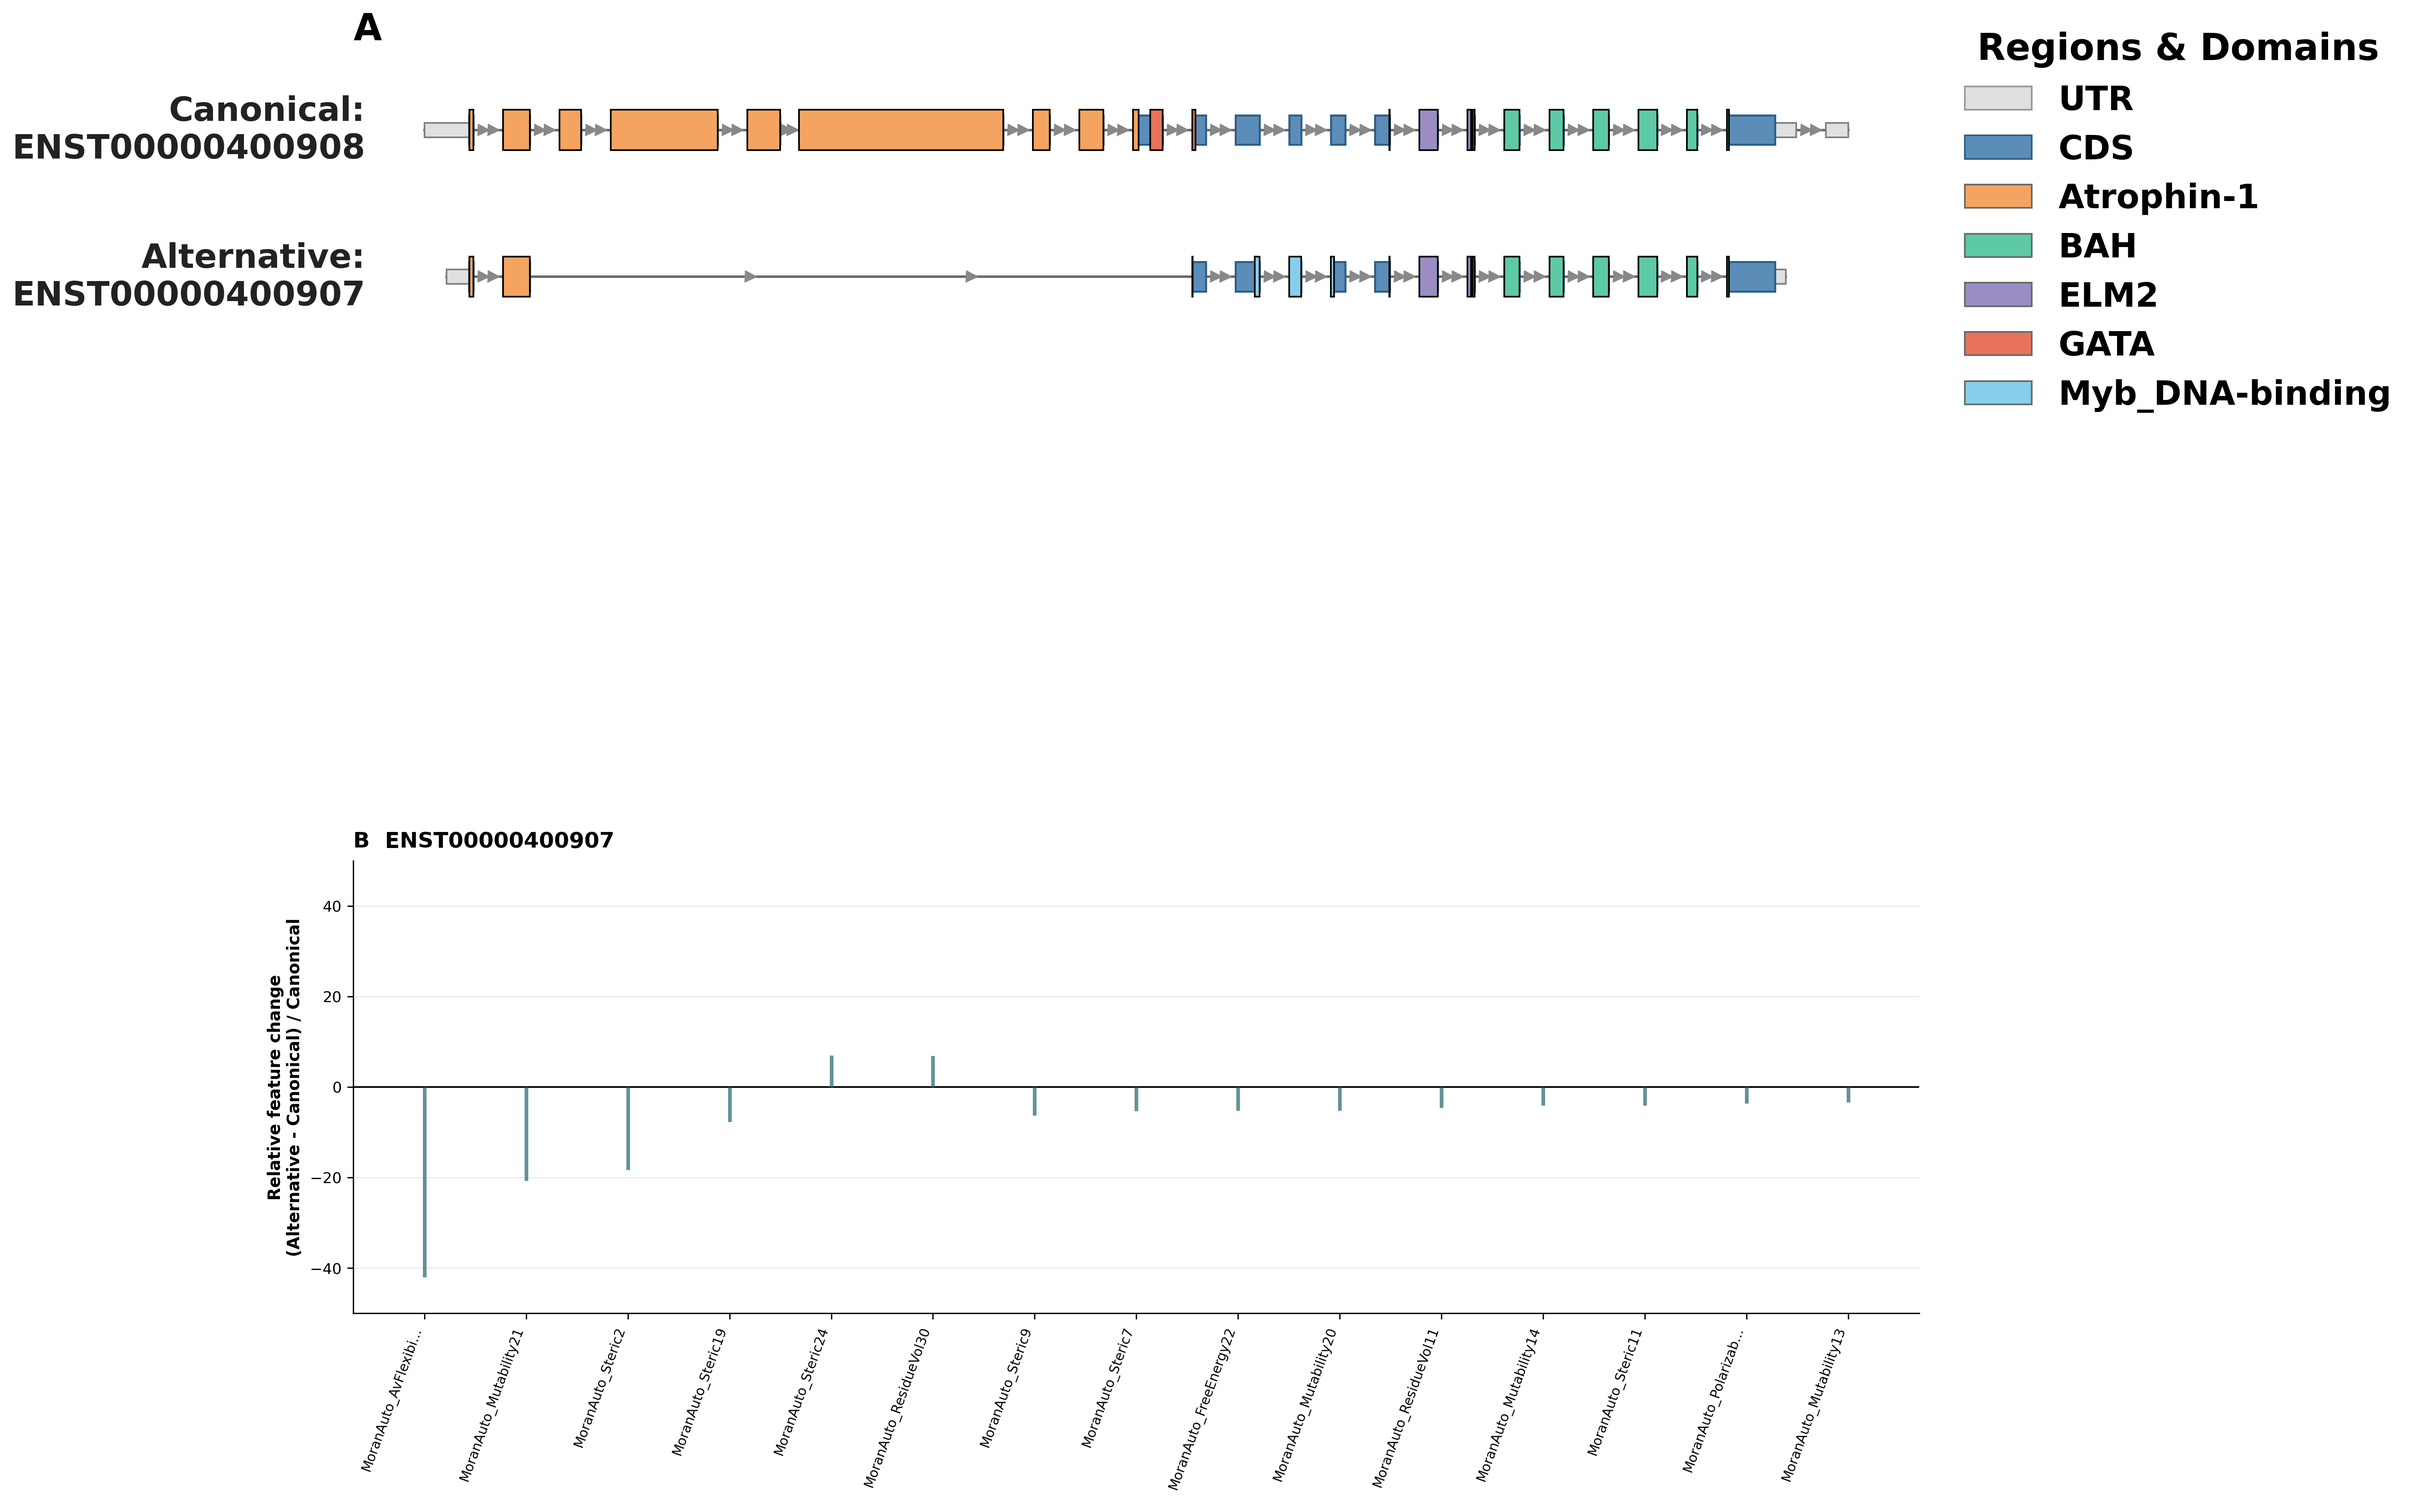
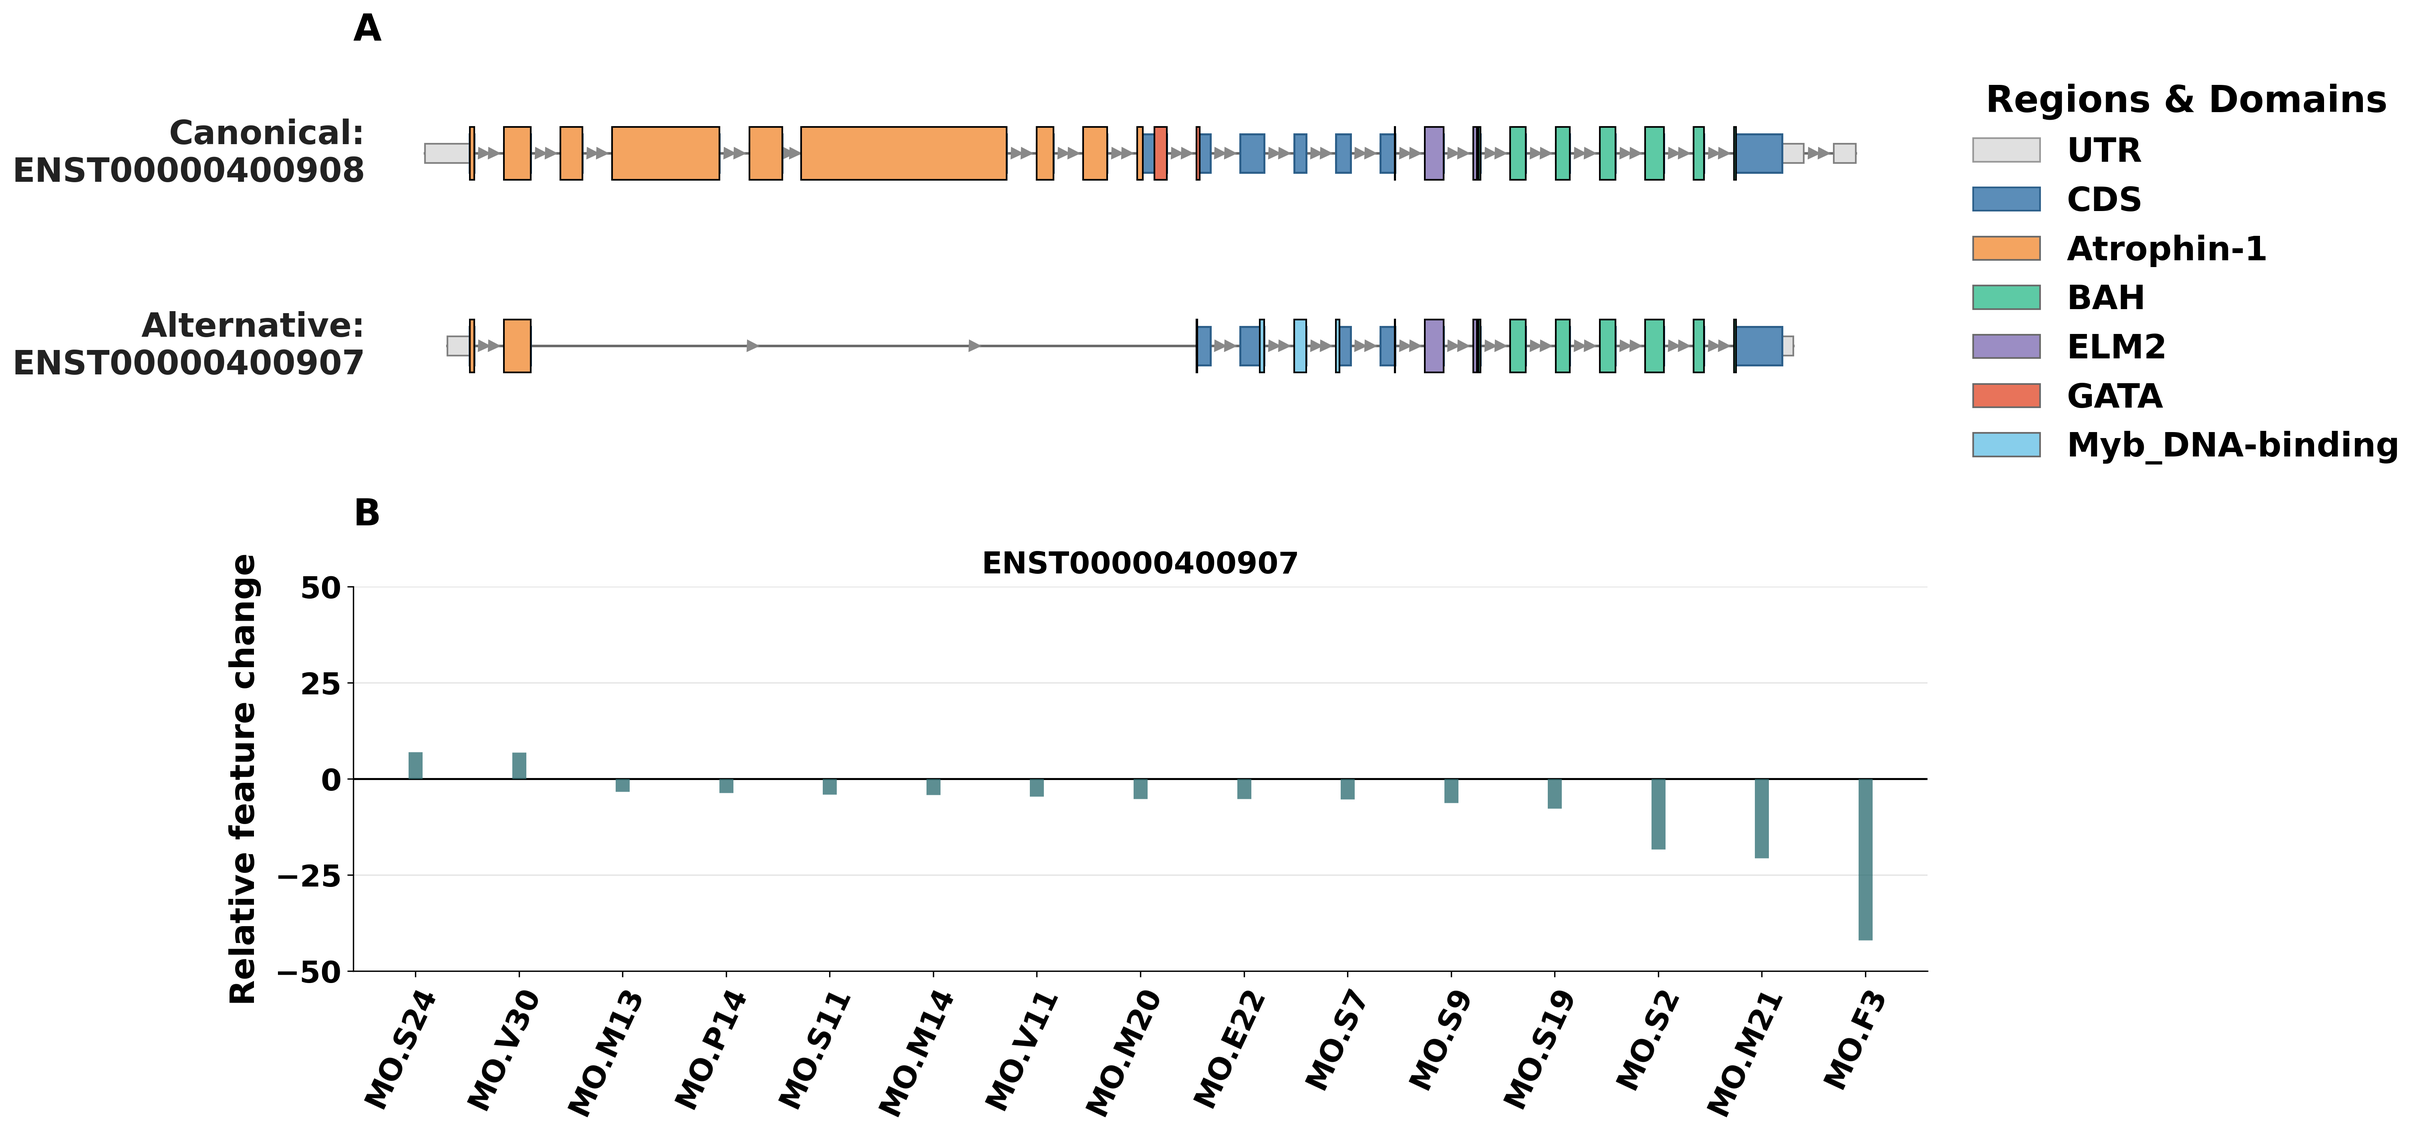
Restore transcript-map proportions and match paper top-15 panels

diff --git a/IsoImpact.py b/IsoImpact.py
@@ -526,18 +526,24 @@ DOMAIN_PALETTE = [
 dynamic_domain_colors = {dom: DOMAIN_PALETTE[i % len(DOMAIN_PALETTE)] 
                          for i, dom in enumerate(unique_domains)}
 
-# Use a single figure with the transcript/domain panel above a dynamic top-15 grid.
+# Size A independently of the B grid so panel labels and the domain legend
+# cannot squeeze the transcript tracks or create large gaps between panels.
 alternative_count = max(len(alt_txs), 1)
 panel_columns = min(3, alternative_count)
 panel_rows = int(np.ceil(alternative_count / panel_columns))
-fig_height = max(12, 4 + len(INPUT_TXS) * 1.8 + panel_rows * 4.8)
-fig = plt.figure(figsize=(20, fig_height), dpi=300, constrained_layout=True)
-gs = GridSpec(1 + panel_rows, panel_columns, figure=fig,
-              height_ratios=[max(3.5, len(INPUT_TXS) * 0.8)] + [4.8] * panel_rows,
-              hspace=0.55, wspace=0.25)
+legacy_height = max(12, 4 + len(INPUT_TXS) * 2.0)
+track_height_ratio = len(INPUT_TXS) * 0.8
+# Original A-axis height, measured with the legacy 20-inch-wide layout.
+a_height = (legacy_height - 1.62223) * track_height_ratio / (track_height_ratio + 3.0)
+b_height = 3.2
+b_bottom_margin = 1.35
+b_row_pitch = b_height + 1.8
+a_bottom = b_bottom_margin + b_height + (panel_rows - 1) * b_row_pitch + 0.8
+fig_height = a_bottom + a_height + 0.5
+fig = plt.figure(figsize=(20, fig_height), dpi=300, constrained_layout=False)
 
 # ==================== [A] Genomic structure and domain map ====================
-ax_a = fig.add_subplot(gs[0, :])
+ax_a = fig.add_axes([2.9 / 20, a_bottom / fig_height, 13.1 / 20, a_height / fig_height])
 ax_a.set_title('A', loc='left', fontsize=22, fontweight='bold', pad=10)
 
 H_utr, H_cds, H_domain = 0.20, 0.40, 0.55
@@ -602,7 +608,41 @@ ax_a.legend(handles=legend_elements, loc='center left', bbox_to_anchor=(1.01, 0.
             prop={'size': 20, 'weight': 'bold'}, title="Regions & Domains", title_fontproperties={'size': 22, 'weight': 'bold'})
 
 # ==================== [B] Top-15 relative feature differences ====================
-# Relative changes are used only for ranking and plotting; they remain out of the CSV.
+# Selection uses absolute relative change; the selected features are then
+# ordered by signed value to match the paper's Figure 2B panels.
+def abbreviated_feature_name(column_name, max_len=8):
+    name = column_name.replace('Normalized_Delta_', '')
+    name = re.sub(r'\s+', '_', name.strip())
+    match = re.fullmatch(
+        r'(MoreauBrotoAuto|MoranAuto|GearyAuto)_(.+?)(\d+)', name
+    )
+    if match:
+        method, property_name, lag = match.groups()
+        method_short = {'MoreauBrotoAuto': 'MB', 'MoranAuto': 'MO', 'GearyAuto': 'GE'}
+        property_short = {
+            'Hydrophobicity': 'H', 'AvFlexibility': 'F', 'Polarizability': 'P',
+            'FreeEnergy': 'E', 'ResidueASA': 'A', 'ResidueVol': 'V',
+            'Steric': 'S', 'Mutability': 'M',
+        }
+        if property_name in property_short:
+            return f"{method_short[method]}.{property_short[property_name]}{lag}"
+    replacements = [
+        ('Extinction_Coefficient_Oxidized', 'ExtCoef_Ox'),
+        ('Extinction_Coefficient_Reduced', 'ExtCoef_Red'),
+        ('Aliphatic_Index', 'Aliphatic'),
+        ('Instability_Index', 'Instability'),
+        ('MoreauBrotoAuto', 'MB'), ('MoranAuto', 'Moran'), ('GearyAuto', 'Geary'),
+        ('SecStruct_Helix', 'Helix'), ('SecStruct_Turn', 'Turn'),
+        ('SecStruct_Sheet', 'Sheet'), ('Hydrophobicity', 'Hydrophob.'),
+        ('Polarizability', 'Polariz.'), ('SecondaryStruct', 'SecStruct'),
+        ('SolventAccess', 'SolvAcc'), ('NormVDWVolume', 'VDWVol'),
+        ('Composition', 'Comp.'), ('Transition', 'Trans.'), ('Distribution', 'Dist.'),
+    ]
+    for old, new in replacements:
+        name = name.replace(old, new)
+    name = re.sub(r'CTD_([CTD])_', r'CTD\1_', name)
+    return name if len(name) <= max_len else name[:max_len - 3] + '...'
+
 if not df_all_features.empty:
     plot_limit = 50.0
     plot_records = []
@@ -611,33 +651,48 @@ if not df_all_features.empty:
         alt_id = metadata_row[f'{compared_label}_Transcript_ID']
         row_delta = pd.to_numeric(normalized_row, errors='coerce')
         row_delta = row_delta[np.isfinite(row_delta)]
-        top_columns = (
+        selected_columns = (
             row_delta.abs()
             .sort_values(ascending=False, kind='mergesort')
             .head(15)
             .index
             .tolist()
         )
-        top_values = row_delta.loc[top_columns]
-        top_names = [column.replace('Normalized_Delta_', '') for column in top_columns]
-        plot_records.append((alt_id, top_names, top_values.to_numpy(dtype=float)))
+        selected_columns = sorted(
+            selected_columns,
+            key=lambda column: float(row_delta[column]),
+            reverse=True,
+        )
+        plot_records.append(
+            (
+                alt_id,
+                [abbreviated_feature_name(column) for column in selected_columns],
+                row_delta.loc[selected_columns].to_numpy(dtype=float),
+            )
+        )
 
     for panel_index in range(panel_rows * panel_columns):
-        panel_row = panel_index // panel_columns + 1
+        panel_row = panel_index // panel_columns
         panel_column = panel_index % panel_columns
-        ax_b = fig.add_subplot(gs[panel_row, panel_column])
         if panel_index >= len(plot_records):
-            ax_b.axis('off')
             continue
+        b_left = 2.9 if panel_columns == 1 else 1.5
+        b_total_width = 13.1 if panel_columns == 1 else 18.1
+        b_gap = 0.6
+        b_width = (b_total_width - b_gap * (panel_columns - 1)) / panel_columns
+        b_bottom = b_bottom_margin + (panel_rows - panel_row - 1) * b_row_pitch
+        ax_b = fig.add_axes([
+            (b_left + panel_column * (b_width + b_gap)) / 20,
+            b_bottom / fig_height, b_width / 20, b_height / fig_height,
+        ])
 
         alt_id, feature_names, y_vals = plot_records[panel_index]
         x_indices = np.arange(len(y_vals))
         plot_values = np.clip(y_vals, -plot_limit, plot_limit)
-        style_color = ['#2F6F73', '#0072B2', '#E69F00'][panel_index % 3]
-
+        style_color = '#2F6F73'
         ax_b.vlines(
             x_indices, 0, plot_values, color=style_color,
-            alpha=0.75, linewidth=2.2, zorder=3
+            alpha=0.78, linewidth=8.4, zorder=3,
         )
         for mask, marker, boundary in (
             (y_vals > plot_limit, '^', plot_limit),
@@ -646,33 +701,36 @@ if not df_all_features.empty:
             if mask.any():
                 ax_b.scatter(
                     x_indices[mask], np.full(mask.sum(), boundary),
-                    marker=marker, s=24, color=style_color,
-                    clip_on=False, zorder=4
+                    marker=marker, s=44, color=style_color,
+                    clip_on=False, zorder=4,
                 )
-
-        ax_b.axhline(0, color='black', linewidth=1.0, zorder=2)
+        ax_b.axhline(0, color='black', linewidth=1.2, zorder=2)
         ax_b.set_ylim(-plot_limit, plot_limit)
-        ax_b.set_xlim(-0.7, max(len(y_vals) - 0.3, 0.7))
+        ax_b.set_yticks(np.arange(-50, 51, 25))
+        ax_b.set_xlim(-0.6, max(len(y_vals) - 0.4, 0.6))
         ax_b.set_xticks(x_indices)
         ax_b.set_xticklabels(
-            [name if len(name) <= 22 else name[:19] + '...' for name in feature_names],
-            rotation=70, ha='right', fontsize=8
+            feature_names, rotation=65, ha='right', rotation_mode='anchor',
+            fontsize=18, fontweight='bold',
         )
-        ax_b.tick_params(axis='y', labelsize=9)
-        ax_b.grid(axis='y', color='#D9D9D9', linewidth=0.6, alpha=0.65)
+        ax_b.tick_params(axis='y', labelsize=18, labelleft=(panel_column == 0))
+        for tick_label in ax_b.get_yticklabels():
+            tick_label.set_fontweight('bold')
+        ax_b.grid(axis='y', color='#D9D9D9', linewidth=0.6, alpha=0.85)
         ax_b.spines['top'].set_visible(False)
         ax_b.spines['right'].set_visible(False)
         ax_b.set_title(
-            ('B  ' if panel_index == 0 else '') + alt_id,
-            loc='left', fontsize=13, fontweight='bold', pad=8
+            str(alt_id), fontsize=18, fontweight='bold', pad=8,
         )
         if panel_column == 0:
-            axis_label = 'Relative feature change\n(Alternative - Canonical) / Canonical'
-            if COMPARISON_MODE == 'reference_pair':
-                axis_label = 'Relative feature change\n(alternative2 - alternative1) / alternative1'
-            ax_b.set_ylabel(axis_label, fontsize=10, fontweight='bold')
+            ax_b.set_ylabel('Relative feature change', fontsize=20, fontweight='bold', labelpad=8)
         else:
             ax_b.set_ylabel('')
+        if panel_index == 0:
+            fig.text(
+                b_left / 20, (b_bottom + b_height + 0.45) / fig_height,
+                'B', fontsize=22, fontweight='bold', ha='left', va='bottom',
+            )
 
 output_filename = os.path.join(OUT_DIR, "IsoImpact_figure.png")
 fig.savefig(output_filename, dpi=300, bbox_inches='tight', facecolor='white')
@@ -929,4 +987,5 @@ plt.close(fig)
 
 print("[IsoImpact] Analysis complete.")
 print(f"[IsoImpact] Figure written to {output_filename}")
+
 
